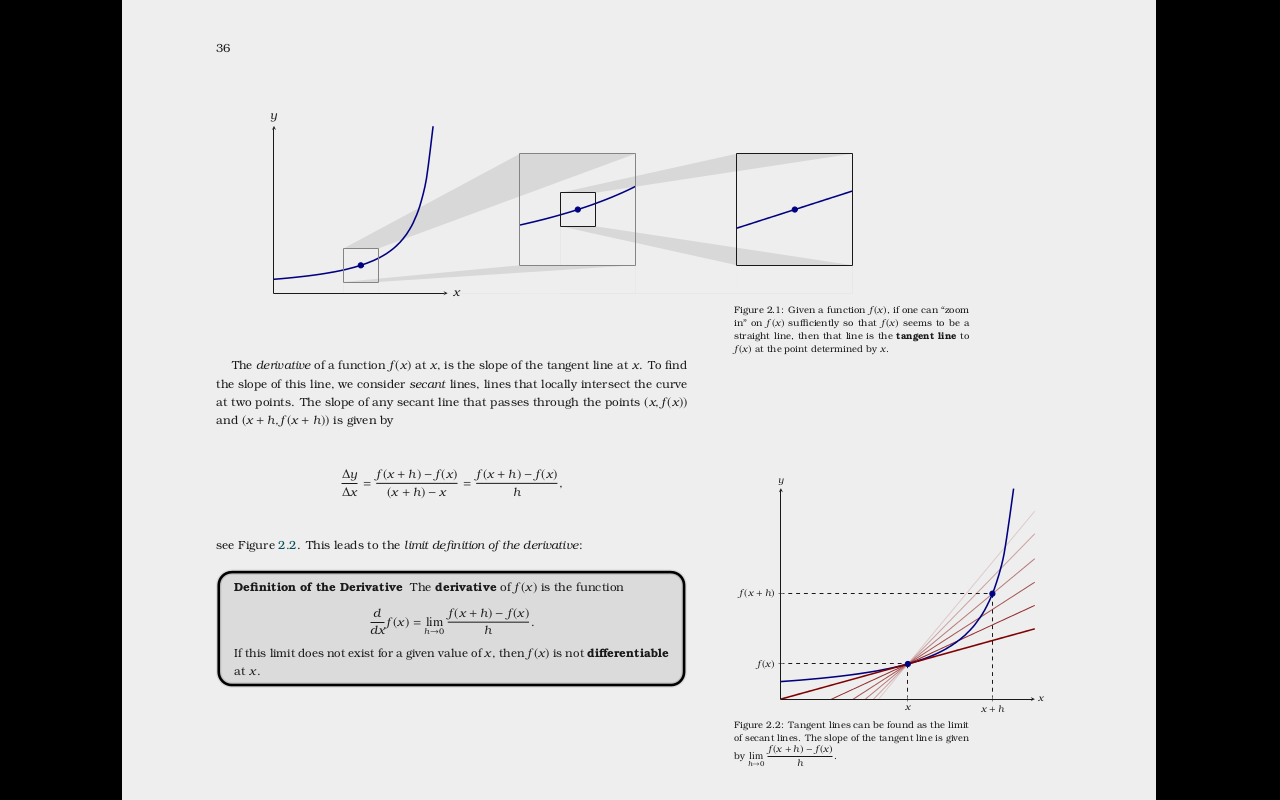
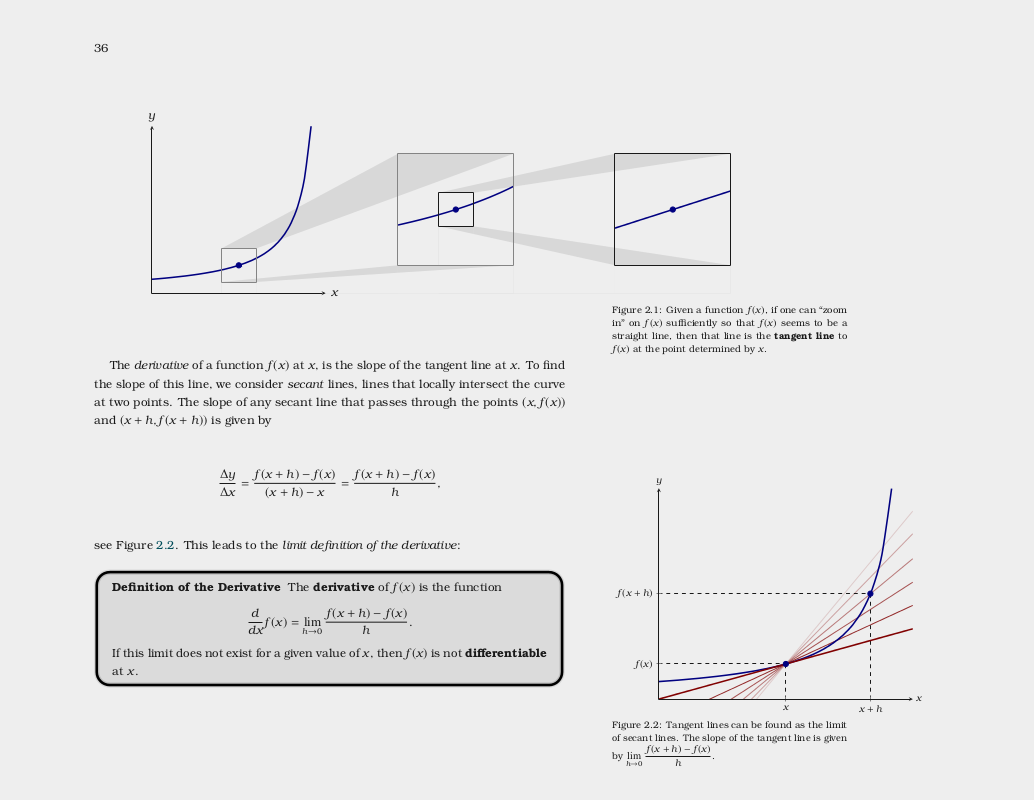
fixed bkgnd image and made the title environment better.

diff --git a/presentation/mooculusFiscal.tex b/presentation/mooculusFiscal.tex
@@ -1,5 +1,11 @@
 \documentclass{beamer}
 
+
+
+%\usepackage{txfonts}
+\usepackage{kerkis}
+
+
 \usepackage{beamerthemeblackboard}
 \usepackage{environ}
 %\usepackage{graphics}
@@ -9,17 +15,22 @@
 %\usepackage{tikz}
 \setbeamertemplate{footline}{}
 
+
+
+
+
 \newcommand{\mooculus}{\textsf{\textbf{MOOC}\textnormal{ULUS}}}
 
 
 
 \newcommand{\MyBlock}[1]{
-  \begin{textblock*}{11cm}(1cm,8.5cm)
+  \begin{textblock*}{\paperwidth}(0cm,8.5cm)
     \begin{tikzpicture}
-      \node[rectangle, rounded corners, inner sep=5pt,minimum width=11cm,align=right,
+      \node[rectangle, %rounded corners, 
+        inner xsep=5pt,text width=\paperwidth,minimum height=.5in,align=right,anchor=west,
         text=yellow, text opacity=1,
-        fill=black, fill opacity=.4](box){
-        \hfill\scalebox{2}{ #1}
+        fill=black, fill opacity=.8](box){
+        \hfill\raisebox{10pt}{\scalebox{2}{ #1 \quad}}
       };
     \end{tikzpicture}
 
@@ -37,8 +48,7 @@
 
 
 
-%\usepackage{txfonts}
-\usepackage{kerkis}
+
 
 \usebackgroundtemplate%
 {%
@@ -65,7 +75,7 @@
 \usebackgroundtemplate{\includegraphics[height=\paperheight]{mooculusHome.png}}
 \begin{frame}
 
-\MyBlock{\color{yellow} What is \mooculus?}
+\MyBlock{What is \mooculus?}
 \end{frame}
 }
 
@@ -83,7 +93,7 @@
 
 
 {
-\usebackgroundtemplate{\includegraphics[height=\paperheight]{textbook.png}} %% NEED TO ZOOM!
+\usebackgroundtemplate{\includegraphics[width=\paperwidth]{textbook.png}} %% NEED TO ZOOM!
 \begin{frame}
 
 \MyBlock{What is \mooculus?}
